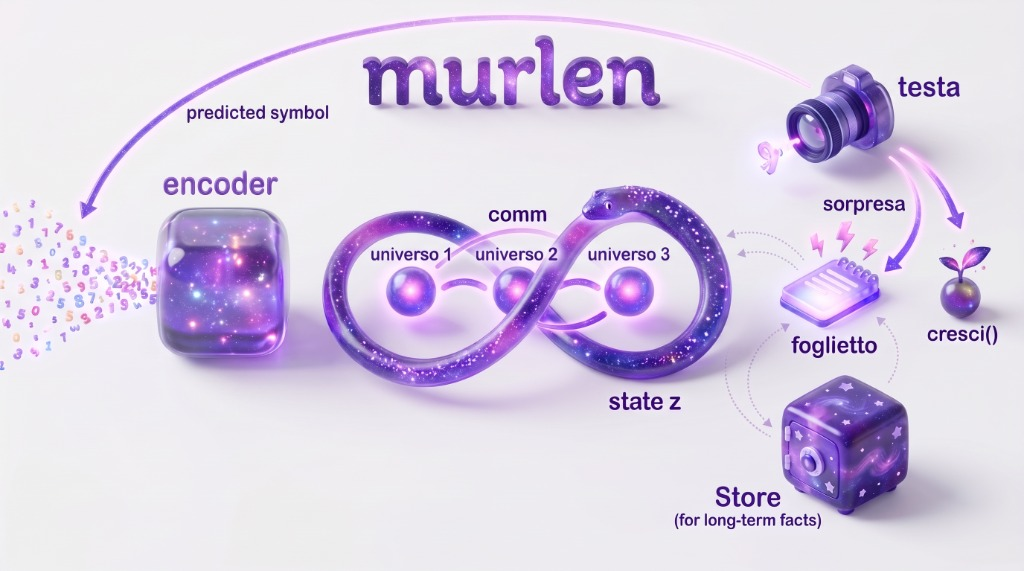
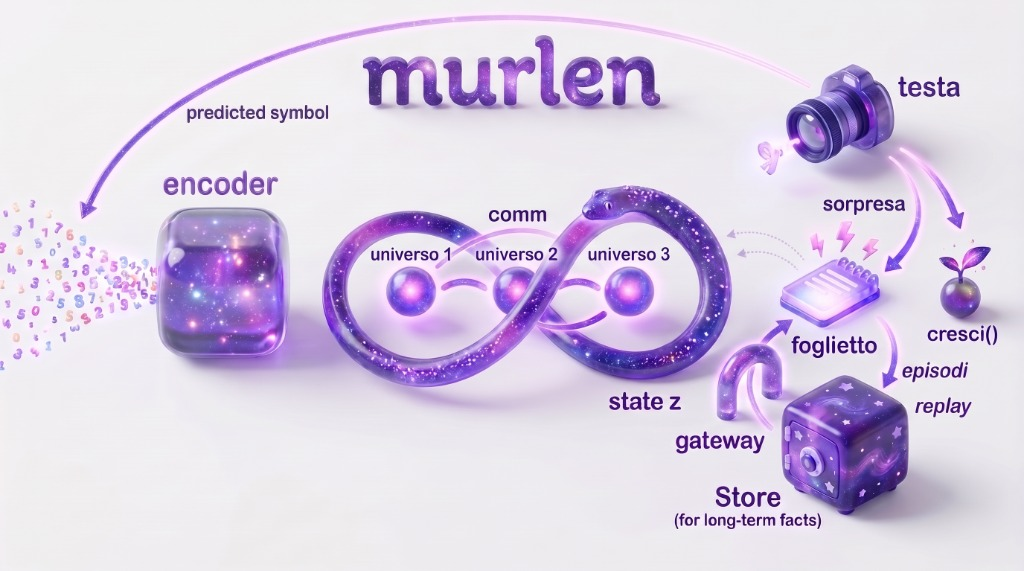
gateway: la porta episodi <-> archivio
Nuovo organo (message broker) fra il foglietto e lo Store:
- veglia: le finestre che lasciano tracce (stesso fence del
  foglietto) diventano episodi del giorno, simboli grezzi
- sonno: episodi -> archivio (tipo='episodio'), oblio sui
  mai-rinforzati, replay = episodi attivi in ordine di
  nascita, pronti per il consolidamento

7 test nuovi; README recuperato e aggiornato (struttura,
sezione gateway, nota revidi rimossa dopo il fix);
architettura.jpg ridisegnata col gateway.

diff --git a/tests/test_gateway.py b/tests/test_gateway.py
@@ -1,0 +1,113 @@
+import torch
+
+from murlen.store import Store
+from murlen.gateway import Gateway
+from aiuti import modello
+
+
+def _foglio():
+    return modello(20, tempo=4).eval().foglio
+
+
+def _sorpresa(n, spike=()):
+    s = torch.ones(1, n) * 0.1
+    for p in spike:
+        s[0, p] = 9.0
+    return s
+
+
+def _veglia(en, seq, spike=()):
+    ids = torch.tensor([seq])
+    pad = torch.zeros_like(ids, dtype=torch.bool)
+    return en.veglia(ids, _sorpresa(len(seq), spike),
+                     pad, _foglio())
+
+
+def test_episodio_solo_se_scrive(tmp_path):
+    en = Gateway(Store(str(tmp_path / 's.jsonl')))
+    assert _veglia(en, [3, 5, 7, 9, 4, 6, 8, 2],
+                   spike=(3,)) == 1
+    assert _veglia(en, [3, 5, 7, 9, 4, 6, 8, 2]) == 0
+    assert len(en._giorno) == 1
+
+
+def test_confine_da_solo_non_basta(tmp_path):
+    """Il confine d'episodio e' sempre tracciato:
+    non conta come motivo per archiviare."""
+    en = Gateway(Store(str(tmp_path / 's.jsonl')))
+    assert _veglia(en, [3, 5, 7, 9, 4, 6, 8, 2],
+                   spike=(0,)) == 0
+
+
+def test_sonno_archivia_e_replay(tmp_path):
+    st = Store(str(tmp_path / 's.jsonl'))
+    en = Gateway(st)
+    seqs = [[3, 5, 7, 2, 4, 6, 8, 9],
+            [4, 6, 8, 3, 5, 7, 9, 2],
+            [9, 8, 7, 6, 5, 4, 3, 2]]
+    for q in seqs:
+        _veglia(en, q, spike=(2,))
+    replay = en.sonno()
+    assert en._giorno == []
+    recs = st.attive('episodio')
+    assert len(recs) == 3 and all(
+        r['tipo'] == 'episodio' for r in recs)
+    assert replay == seqs          # ordine di nascita
+
+
+def test_rivivere_conferma(tmp_path):
+    """Lo stesso episodio vissuto di nuovo e'
+    una conferma vera (identita' sui simboli):
+    a m_consolida conferme -> consolidata."""
+    st = Store(str(tmp_path / 's.jsonl'))
+    en = Gateway(st)
+    for _ in range(3):
+        _veglia(en, [3, 5, 7, 2, 4, 6, 8, 9],
+                spike=(2,))
+        en.sonno()
+    r = st.attive('episodio')[0]
+    assert r['n_confirm'] == 2
+    assert r['stato'] == 'consolidata'
+
+
+def test_replay_esclude_dimenticati(tmp_path):
+    st = Store(str(tmp_path / 's.jsonl'))
+    en = Gateway(st)
+    for i in range(6):
+        _veglia(en, [i, 10 + i, 20 + i, 30 + i,
+                     40 + i, 50 + i, 60 + i, 70 + i],
+                spike=(2,))
+    replay = en.sonno(recenti=2)
+    attese = [[i, 10 + i, 20 + i, 30 + i,
+               40 + i, 50 + i, 60 + i, 70 + i]
+              for i in (4, 5)]
+    assert replay == attese
+
+
+def test_episodi_sopravvivono_al_ricarico(tmp_path):
+    p = str(tmp_path / 's.jsonl')
+    en = Gateway(Store(p))
+    _veglia(en, [3, 5, 7, 2, 4, 6, 8, 9], spike=(2,))
+    en.sonno()
+    en.store.close()
+    en2 = Gateway(Store(p))
+    assert en2.sonno() == [[3, 5, 7, 2, 4, 6, 8, 9]]
+
+
+def test_confine_reale_con_annota(tmp_path):
+    """Stessa sorpresa per annota e per la
+    porta: le tracce scritte nel foglietto e
+    l'episodio archiviato coincidono."""
+    m = modello(20, tempo=4).eval()
+    en = Gateway(Store(str(tmp_path / 's.jsonl')))
+    seq = [3, 5, 7, 9, 4, 6, 8, 2, 10, 12, 11, 13]
+    ids = torch.tensor([seq])
+    pad = torch.zeros_like(ids, dtype=torch.bool)
+    with torch.no_grad():
+        _, h = m(ids, pad, causal=True)
+        sorpresa = _sorpresa(len(seq), spike=(3, 6))
+        mem = m.annota(h, sorpresa, pad)
+        assert en.veglia(ids, sorpresa, pad,
+                         m.foglio) == 1
+    assert mem is not None and mem[0].size(0) == 3
+    assert en.sonno() == [seq]

diff --git a/gateway.py b/gateway.py
@@ -1,0 +1,87 @@
+"""gateway — la porta fra il foglietto e l'archivio.
+
+Message broker bidirezionale fra le tracce del
+foglietto e la memoria persistente (Store):
+
+- `veglia`: una finestra vissuta che lascia tracce
+  nel foglietto (oltre al confine d'episodio, che
+  e' sempre tracciato) viene annotata come
+  episodio del giorno — simboli grezzi, nessuna
+  interpretazione;
+- `sonno`: gli episodi del giorno entrano
+  nell'archivio (Store), l'oblio corre su quelli
+  mai rinforzati, e gli episodi attivi tornano
+  come materiale di replay per il consolidamento.
+
+Le tracce del foglietto sono vettori h senza
+simboli: l'episodio archiviabile e' la finestra
+che le ha prodotte, catturata al confine. La
+scelta di cosa merita memoria resta del
+foglietto (il suo fence dei quartili) — qui si
+chiede solo "questa finestra ha scritto?".
+Copre il percorso a fence; la variante a gate
+appreso (mem_gate) non e' ancora agganciata.
+
+Il buffer del giorno e' in RAM: un processo che
+muore prima del sonno perde gli episodi non
+ancora consegnati all'archivio.
+"""
+
+
+class Gateway:
+    """Gateway <-> archivio (Store).
+
+    `veglia` raccoglie gli episodi della giornata;
+    `sonno` li consegna all'archivio e restituisce
+    il materiale di replay."""
+
+    def __init__(self, store):
+        self.store = store
+        self._giorno = []   # episodi vissuti, non
+                            # ancora consegnati
+
+    def veglia(self, ids, sorpresa, pad, foglio):
+        """Annota le finestre vissute (B,N) che
+        hanno lasciato tracce oltre al confine:
+        per ogni elemento del batch la scelta e'
+        quella del foglietto stesso. -> numero di
+        episodi annotati."""
+        s = sorpresa[:, 1:]
+        p = pad[:, 1:]
+        if not s.numel():
+            return 0
+        sel = foglio.scegli_valori(s, p)
+        n0 = 0
+        for b in range(ids.size(0)):
+            if not bool(sel[b].any()):
+                continue
+            n = int((~pad[b]).sum())
+            self._giorno.append(
+                ids[b, :n].tolist())
+            n0 += 1
+        return n0
+
+    def sonno(self, recenti=None):
+        """Consegna gli episodi all'archivio
+        (ri-osservare lo stesso episodio nel
+        mondo = conferma vera, lo decide il
+        Store per identita' dei simboli), fa
+        decadere i mai-rinforzati e restituisce
+        il materiale di replay: gli episodi
+        attivi in ordine di nascita. `recenti`
+        passa il limite di ritenzione al
+        dimentica dello Store."""
+        for ep in self._giorno:
+            self.store.add('episodio', 'vissuto',
+                           {'simboli': ep},
+                           'gateway',
+                           tipo='episodio')
+        self._giorno = []
+        self.store.dimentica(
+            'episodio',
+            **({'recenti': recenti}
+               if recenti is not None else {}))
+        att = self.store.attive('episodio')
+        att.sort(key=lambda r: r['nato'])
+        return [r['parametri']['simboli']
+                for r in att]

diff --git a/README.md b/README.md
@@ -13,7 +13,9 @@ ogni slot sceglie chi ascoltare). `z`, lo stato portato fra i
 blocchi, è la memoria di lavoro: volatile, riscritta di
 continuo, con un gate che può proteggere slot dalla
 riscrittura. Il deposito dei fatti a lungo termine è `store.py`,
-in questa libreria.
+e `gateway.py` è la porta che lo collega al foglietto: gli
+episodi che lasciano tracce entrano nell'archivio nel sonno e
+tornano come replay nel consolidamento.
 
 MURLEN non lavora su testo, audio o video grezzi. Riceve **sequenze di numeri interi**, dove ogni numero è un simbolo (un glifo, un suono, ...), e impara a indovinare il simbolo successivo. Non riceve etichette: il segnale di apprendimento è l'errore di predizione (la "sorpresa").
 
@@ -25,15 +27,16 @@ sequenze di simboli (id interi)  ->  MURLEN (predizione + memoria)
 
 Licenza: [BUSL 1.1](LICENSE) — libera per uso non commerciale (ricerca, studio, no-profit); le aziende che vogliono farne uso commerciale devono acquistare una licenza. Quattro anni dopo la pubblicazione ogni versione diventa automaticamente **GPL-3.0-or-later**: resta open source per sempre.
 
-![Architettura: simboli -> encoder -> universi (z ricorrente, comm fra voci) -> testa; la sorpresa scrive il foglietto e fa nascere universi; lo Store tiene i fatti](architettura.jpg)
+![Architettura: simboli -> encoder -> universi (z ricorrente, comm fra voci) -> testa; la sorpresa scrive il foglietto e fa nascere universi; il gateway porta gli episodi allo Store e nel sonno li ripresenta come replay](architettura.jpg)
 
 ## Struttura
 
 | File | Ruolo |
 |------|-------|
-| `model.py` | Il "cervello": `MultiUniverse`, rete neurale con K universi |
+| `model.py` | Il nucleo: `MultiUniverse`, rete neurale con K universi |
 | `ponte.py` | Converte i simboli in token e allena la predizione del simbolo successivo |
 | `store.py` | Memoria persistente delle regole (file JSONL append-only) |
+| `gateway.py` | La porta fra il foglietto e l'archivio: episodi fuori, replay dentro |
 
 ### `model.py`: MultiUniverse
 
@@ -47,7 +50,7 @@ Licenza: [BUSL 1.1](LICENSE) — libera per uso non commerciale (ricerca, studio
 - **Comunicazione** (`comm=True`): ogni universo espone un riassunto del proprio stato (la sua "voce"); sul canale passa solo la deviazione dal coro — ciò che una voce dice di diverso dalle altre. Ogni slot di ogni universo legge le voci per contenuto (`Comm`, cross-attention): chi ascolta chi dipende dal contesto, non da un voto globale. Attiva di default con `K>1`; va decisa alla creazione del modello.
 - **Modalità ricorrente** (`tempo=N`): la sequenza viene elaborata a blocchi di N simboli; lo stato degli universi passa da un blocco al successivo — sia via `zinj` (broadcast) sia via `zread` (lettura a contenuto: ogni posizione interroga gli slot di `z`). Ogni slot ha un gate proprio che può rallentarne la riscrittura fino a proteggerlo. Di default `tempo=64` con `K>1` (`TEMPO_UNIVERSI`) e `tempo=0` con `K=1`.
 - **Foglietto** (`foglio`, attivo quando `tempo>0`): memoria episodica indirizzata a contenuto. Dopo ogni finestra `annota(h, sorpresa, pad)` consolida le posizioni il cui simbolo era imprevisto (fence dei quartili sulla distribuzione delle sorprese, più il confine d'episodio): lasciano una traccia snapshot che le posizioni successive interrogano per contenuto, anche oltre il contesto. Il canale sta su `foglio.lam` come `comm`. Si passa fra finestre con `mem0` — distinto da `z0`: si possono ablazionare separatamente. In `impara_predizione` la scrittura avviene dentro il `forward`, a ogni blocco di `tempo`: l'organo si allena anche dentro una finestra sola. Capienza `MEM_CAP=256` tracce. Variante `mem_gate=True`: la scelta di cosa scrivere è appresa da un gate sigmoide invece del fence dei quartili — misurata apprendibile sulla sonda a due fatti (`tests/universi_gate.py`, 1a giunzione sotto il caso su due seed). Misurato: trasporta un fatto discreto oltre ~500 simboli (dove `z` non ci riesce); il binding di due fatti insieme è appreso solo parzialmente.
-- **Neurogenesi** (`cresci()`): aggiunge un universo con "voce" inizialmente muta (pesi a zero). Passando da 1 a 2 universi accende da sola comunicazione (anch'essa muta all'inizio) e `tempo=64`, se non sono stati scelti alla creazione. Funziona con entrambi gli `init` (`'learned'` e `'projected'`). Può scattare da sola durante il training: vedi `vigilanza` in `impara_predizione`.
+- **Crescita** (`cresci()`): aggiunge un universo con "voce" inizialmente muta (pesi a zero). Passando da 1 a 2 universi accende da sola comunicazione (anch'essa muta all'inizio) e `tempo=64`, se non sono stati scelti alla creazione. Funziona con entrambi gli `init` (`'learned'` e `'projected'`). Può scattare da sola durante il training: vedi `vigilanza` in `impara_predizione`.
 - **Compatibilità**: i checkpoint vecchi, con un unico blocco di aggiornamento condiviso, vengono caricati copiando quel blocco in ogni universo.
 
 `forward(ids, pad, causal=False, z0=None, mem0=None, scrivi=None)` restituisce `(z, h)`:
@@ -101,6 +104,16 @@ La soglia si sceglie per ogni memoria e si può cambiare in qualsiasi momento: `
 Metodi principali: `add`, `conferma`, `contraddice`, `revidi`, `simili`, `attive`, `consolidate`, `dimentica`, `audit`, `close`. Nota su `attive`: senza famiglia restituisce solo i record `tipo='regola'`; con famiglia restituisce tutti i tipi — serve a `dimentica`, che deve far decadere anche gli episodi. `simili` richiama per campi uguali fra i parametri, solo sullo stato corrente di ogni regola (le versioni storiche non contano), con un piccolo rinforzo per le regole già confermate; l'indice invertito sui campi evita di scansionare lo store intero.
 Lo store tiene un handle di append persistente (`close()` lo rilascia, altrimenti alla fine del processo). Le query stanno sugli indici in RAM (`_by_id` stato corrente, `_inv` campi, `_by_n` conferme per famiglia); il file si rilegge solo all'avvio.
 Se il processo viene interrotto a metà scrittura, la riga incompleta viene eliminata al caricamento.
+
+### `gateway.py`: la porta episodi <-> archivio
+
+Message broker bidirezionale fra le tracce del foglietto e lo Store. Le tracce sono vettori `h` senza simboli: l'episodio archiviabile è la finestra che le ha prodotte, catturata al confine.
+
+- `Gateway(store)` — il broker si costruisce su uno Store esistente.
+- `veglia(ids, sorpresa, pad, foglio)` — annota come episodi del giorno le finestre vissute che hanno lasciato tracce oltre al confine d'episodio (sempre tracciato). La scelta "cosa merita memoria" resta del foglietto (il suo fence dei quartili): qui si chiede solo *questa finestra ha scritto?*. Gli episodi sono simboli grezzi, nessuna interpretazione.
+- `sonno(recenti=None)` — consegna gli episodi all'archivio (record `tipo='episodio'`; ri-osservare gli stessi simboli nel mondo è una conferma vera, decisa per identità), fa decadere i mai-rinforzati (`dimentica`), e restituisce il materiale di **replay**: gli episodi attivi in ordine di nascita, pronti da rimescolare nelle `seqs` di `impara_predizione`. Il replay è la via che densifica le letture per indirizzo — il carico che il canale episodico richiede (vedi `sonda_scala_n32`).
+
+Il buffer del giorno è in RAM: un processo che muore prima del sonno perde gli episodi non consegnati. Copre il percorso a fence; la variante `mem_gate` non è ancora agganciata. Il ritmo veglia/sonno (quando dormire) non è compito di questo modulo: vive nell'organismo (`mimo/cervello/`).
 
 ## Requisiti
 
@@ -171,7 +184,7 @@ Gli script `tests/universi_*.py` e `confronto_init.py` non sono test di regressi
 
 - Non legge file audio, immagini o video: servono simboli già estratti.
 - Non genera testo, audio o video: prevede solo il simbolo successivo.
-- Non segmenta le sequenze in parole e non scopre regole in automatico: `store.py` fornisce la memoria, ma nessun modulo di MURLEN la riempie.
+- Non segmenta le sequenze in parole e non scopre regole in automatico: `store.py` fornisce la memoria e `gateway.py` la riempie di **episodi** (le finestre che hanno lasciato tracce); le *regole* restano da scrivere dall'esterno.
 
 ## Problemi noti
 
@@ -182,7 +195,6 @@ Gli script `tests/universi_*.py` e `confronto_init.py` non sono test di regressi
 - **`z` non trasporta fatti discreti**: lo stato porta continuità locale oltre il contesto, ma informazione discreta a lungo raggio no — misurato su compiti a chiave, marche e dialogo. `z` è memoria di lavoro, non archivio: il trasporto dei fatti è del **foglietto**, misurato su uno e due fatti legati insieme (dialogo: 1a giunzione di finestra 2 sotto il caso solo col foglietto — 1.27 vs 1.39 a fatto singolo, 2.61 vs 2.77 con binding a due; dimenticarlo o spegnerne `lam` la riporta sopra il caso). Serve allenamento a curriculum e passi sufficienti (`tests/universi_dialogo.py` — fatto singolo, `tests/universi_dialogo_prosegui.py` — binding a due). Con la scrittura a gate appreso (`mem_gate`) il positivo si replica su due seed: 1a giunzione 2.09–2.60 contro caso 2.773, e spegnere il foglietto la riporta a ~3.0-3.2 (`tests/universi_gate.py`).
 - **Ruoli degli universi**: nessuna specializzazione pulita (né per lingua né per partito), ma sul dialogo compaiono effetti selettivi per tipo di risposta — per esempio zittire un universo dimezza la loss di una giunzione specifica e la peggiora su un'altra. Differenziazione funzionale embrionale, non ruoli (`tests/universi_ruoli.py`).
 - **Reasoning a catena**: misurato positivo — ogni giunzione produce lo stato per la successiva; il foglietto trasporta lo stato *calcolato* oltre il confine (1a giunzione di finestra 2: 2.24 vs caso 2.77; dimenticato: 3.2-3.8) e la catena prosegue in finestra 2 (giunzioni 0.17). È il livello più basso di inferenza multi-passo, ma è verificato (`tests/universi_catena.py`, `universi_prosegui.py`).
-- **`Store.revidi`**: conserva `n_confirm` della versione precedente — una regola revisionata si ri-consolida alla prima conferma successiva, senza ri-guadagnarsi le prove. Semantica da rivedere con l'uso reale.
 - **Su testo vero gli organi non servono (ancora)**: su finestre consecutive di libri in 3 lingue (1000 passi, caratteri), portare z+foglietto non aiuta e anzi costa un filo (+0.005-0.02). Verdetto ora solido: con il foglietto allenato dentro il forward `lam` **scende** da solo (~0.075→0.056) — dove le tracce sono ridondanti rispetto all'encoder il modello stesso chiude l'organo. Coerente col quadro: i meccanismi si accendono su compiti con fatti che ritornano; sul testo naturale a questa scala il segnale memoria è debole (`tests/universi_libro_finestre.py`, `universi_libro.py`).
 
 ## Costanti di default
@@ -223,7 +235,7 @@ Sweep `tests/scala.py`: 12 assi × 3 valori × 2 seed, compito 200 fatti a dista
 Sonde dedicate (`tests/sonda_*.py`, risultati in `tests/dati/`):
 
 - **`sonda_campo` / `sonda_campo_libro`** — il bordo di finestra esiste (posizioni iniziali più sorprendenti), ma su testo vero `z`+foglietto lo compensano del tutto (gap residuo ~0). `ctx` resta una taglia di nascita: nessuna crescita in vita giustificata dalla misura.
-- **`sonda_sviluppo`** — E1: una mente nata K=1 impara più in fretta di una nata K=3 (1.53 vs 1.75); la vigilanza non è mai scattata perché la loss era già bassa. E2: il gap d=96/d=384 a 340 passi (1.07) si chiude a 840 — nessuna saturazione strutturale misurata.
+- **`sonda_sviluppo`** — E1: un modello nato K=1 impara più in fretta di uno nato K=3 (1.53 vs 1.75); la vigilanza non è mai scattata perché la loss era già bassa. E2: il gap d=96/d=384 a 340 passi (1.07) si chiude a 840 — nessuna saturazione strutturale misurata.
 - **`sonda_vigilanza`** — la vigilanza a soglia assoluta è cieca alla saturazione: la loss scende sotto la mediana di warmup e ci resta, mai scattata. Il segnale giusto sarebbe lo stallo (pendenza): separabile — plateau Q3=0.09 vs apprendimento Q1=0.15 — ma va testato su un carico dove la saturazione esiste davvero.
 - **`sonda_memcap` / `sonda_lettore` / `sonda_lettore_min` / `sonda_lettore_libro`** — il lettore del foglietto a 500 passi: **non si forma** su compiti-esame (piatto a 1–60 fatti, fence o gate appreso, diretto o curriculum) né su testo vero alle posizioni di riuso (2.935 ≈ 2.934 ≈ 2.935). Verdetto poi ribaltato dalla sonda di scala: era tempo, non struttura (vedi `sonda_scala_indirizzo`).
 - **`sonda_lettore_fattori`** — quando nasce il lettore *posizionale*: la variabile decisiva è **quante volte lo stesso fatto viene letto per episodio**. Uso fitto → lettura di contenuto sempre; uso singolo → mai (intatto ≈ episodio-1). Curriculum irrilevante, binding arbitrario costa ma non uccide.
